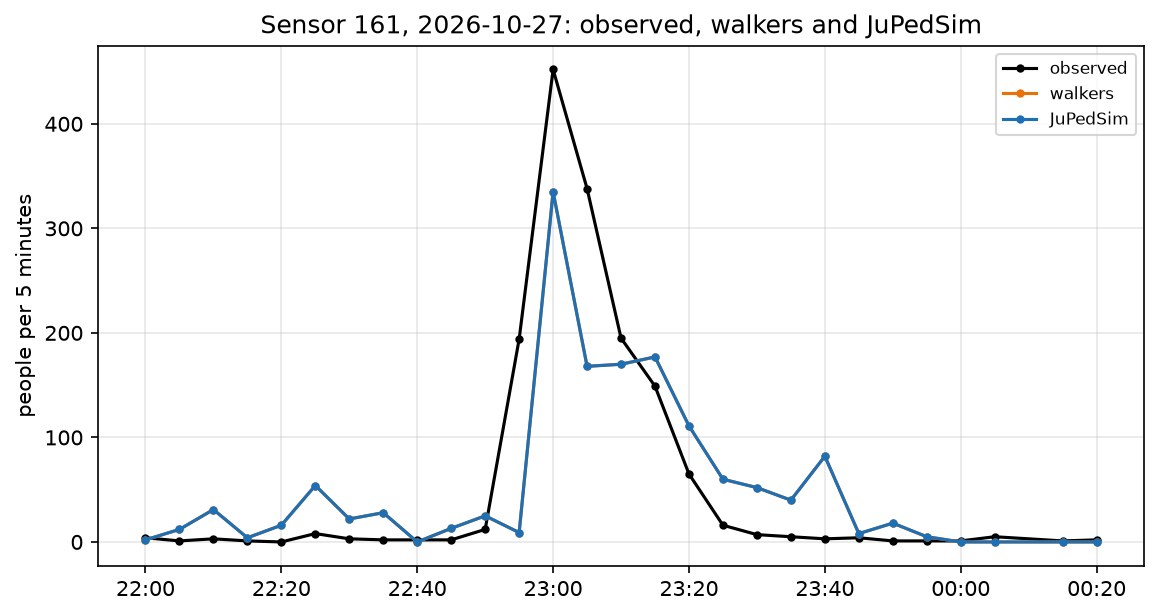
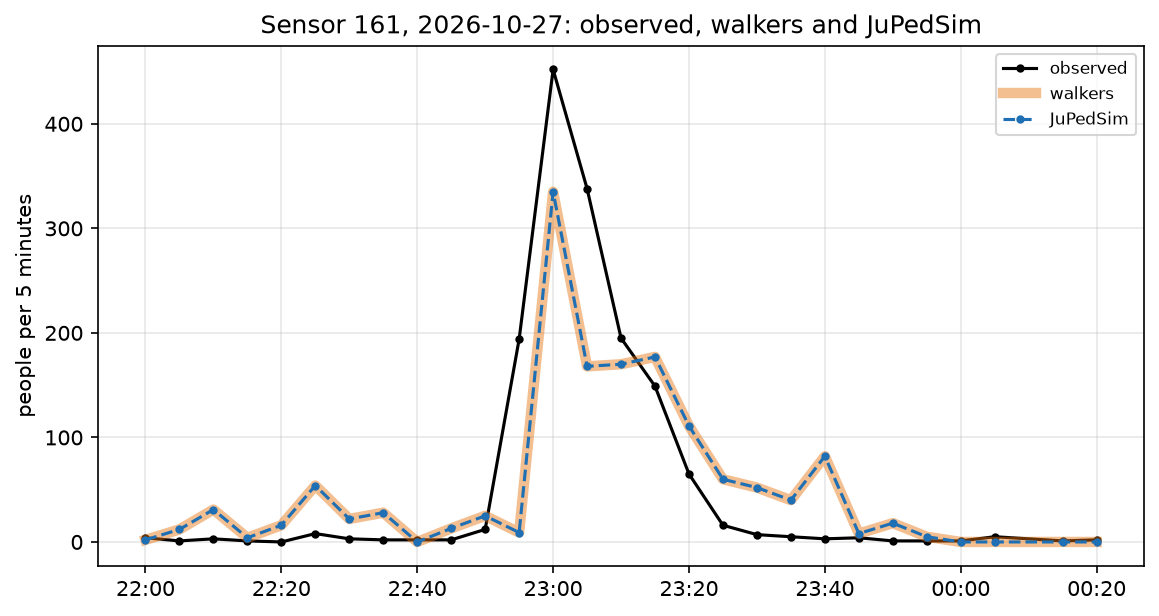
make walkers and jupedsim lines both visible in the figure

diff --git a/src/simulation/figures.py b/src/simulation/figures.py
@@ -228,14 +228,23 @@ def microsim_figure(table: pd.DataFrame, night: str, sensor: int, path: Path) ->
     labels = {"observed": "observed", "walkers": "walkers", "jupedsim": "JuPedSim"}
     fig, ax = plt.subplots(figsize=(9, 4.5))
     minutes = minutes_after_start(pd.Series(table.index), night)
+    styles = {
+        "observed": {"linewidth": 1.5, "marker": "o", "markersize": 3},
+        "walkers": {"linewidth": 5, "alpha": 0.45},
+        "jupedsim": {
+            "linewidth": 1.5,
+            "linestyle": "--",
+            "marker": "o",
+            "markersize": 3,
+        },
+    }
     for name in [c for c in colours if c in table.columns]:
         ax.plot(
             minutes,
             table[name].to_numpy(),
-            marker="o",
-            markersize=3,
             color=colours[name],
             label=labels[name],
+            **styles[name],
         )
     ax.xaxis.set_major_formatter(FuncFormatter(clock))
     ax.set_ylabel("people per 5 minutes")
